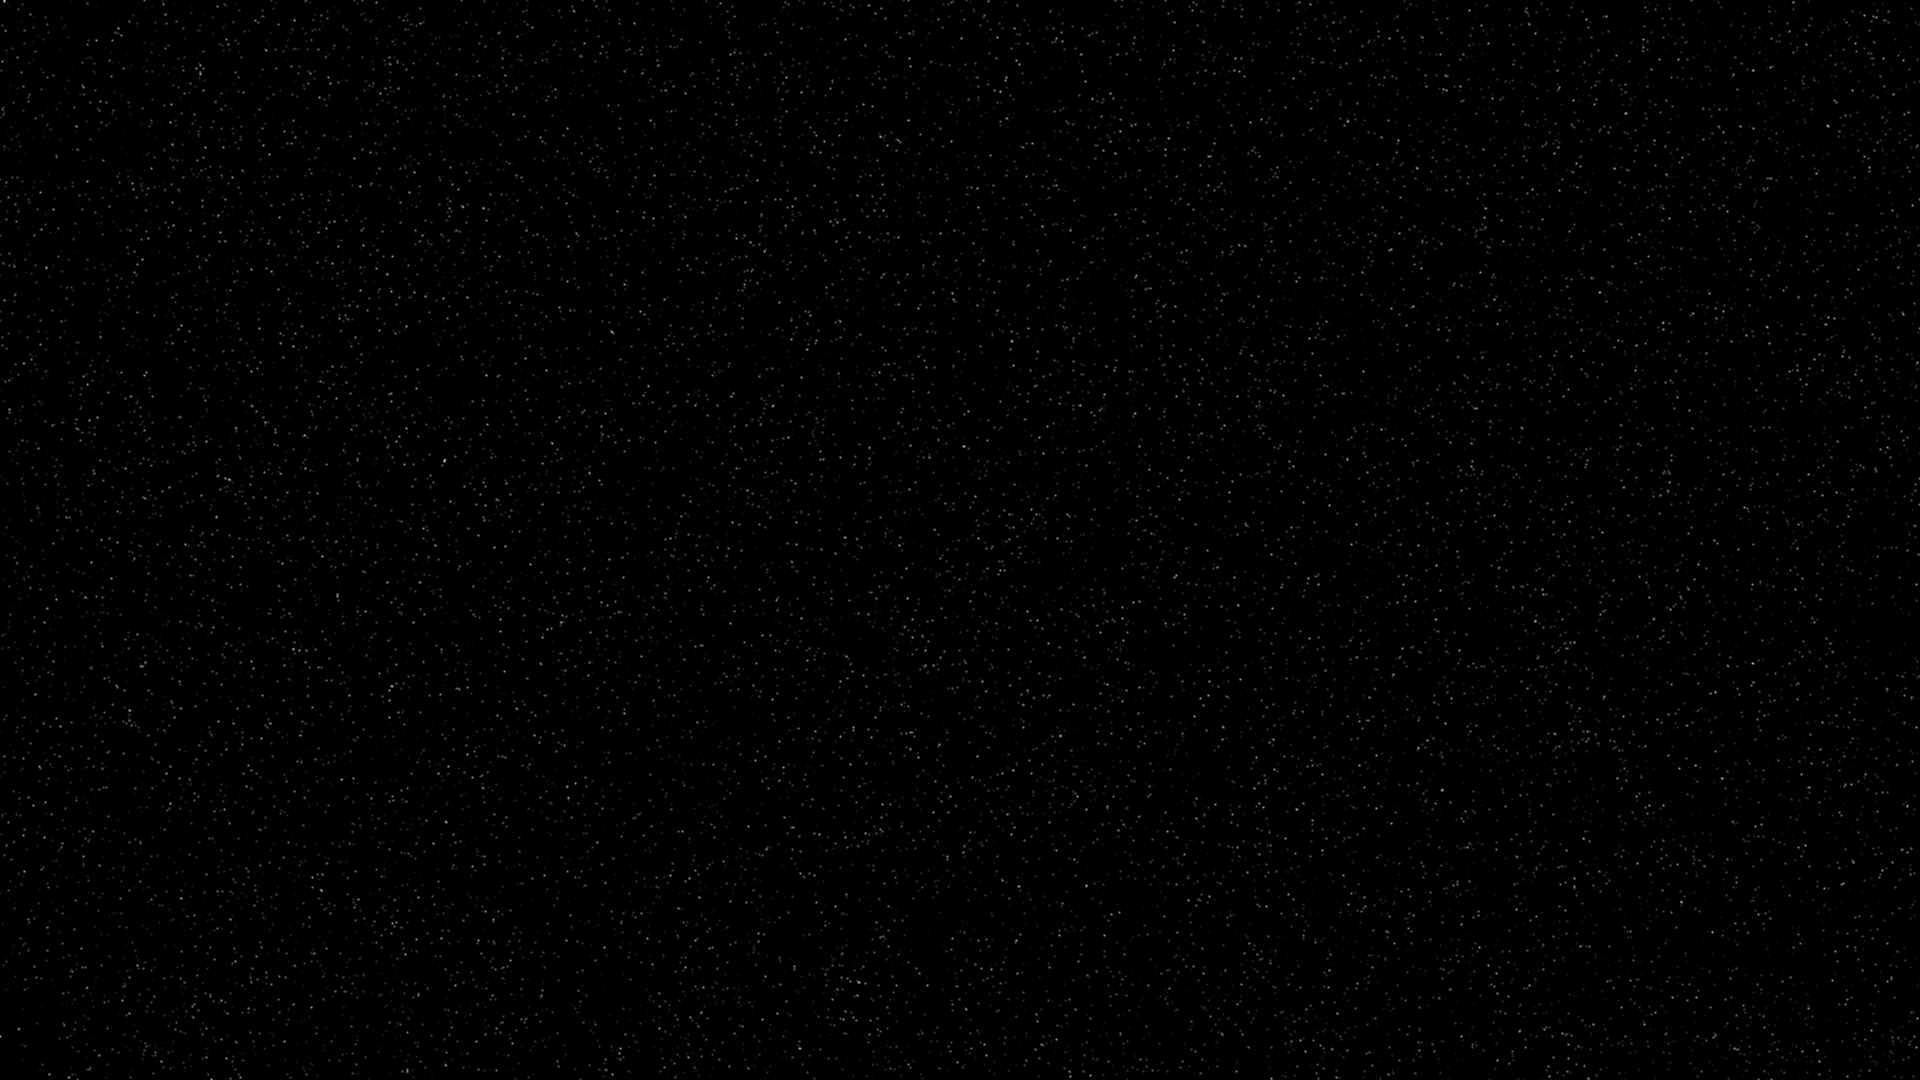
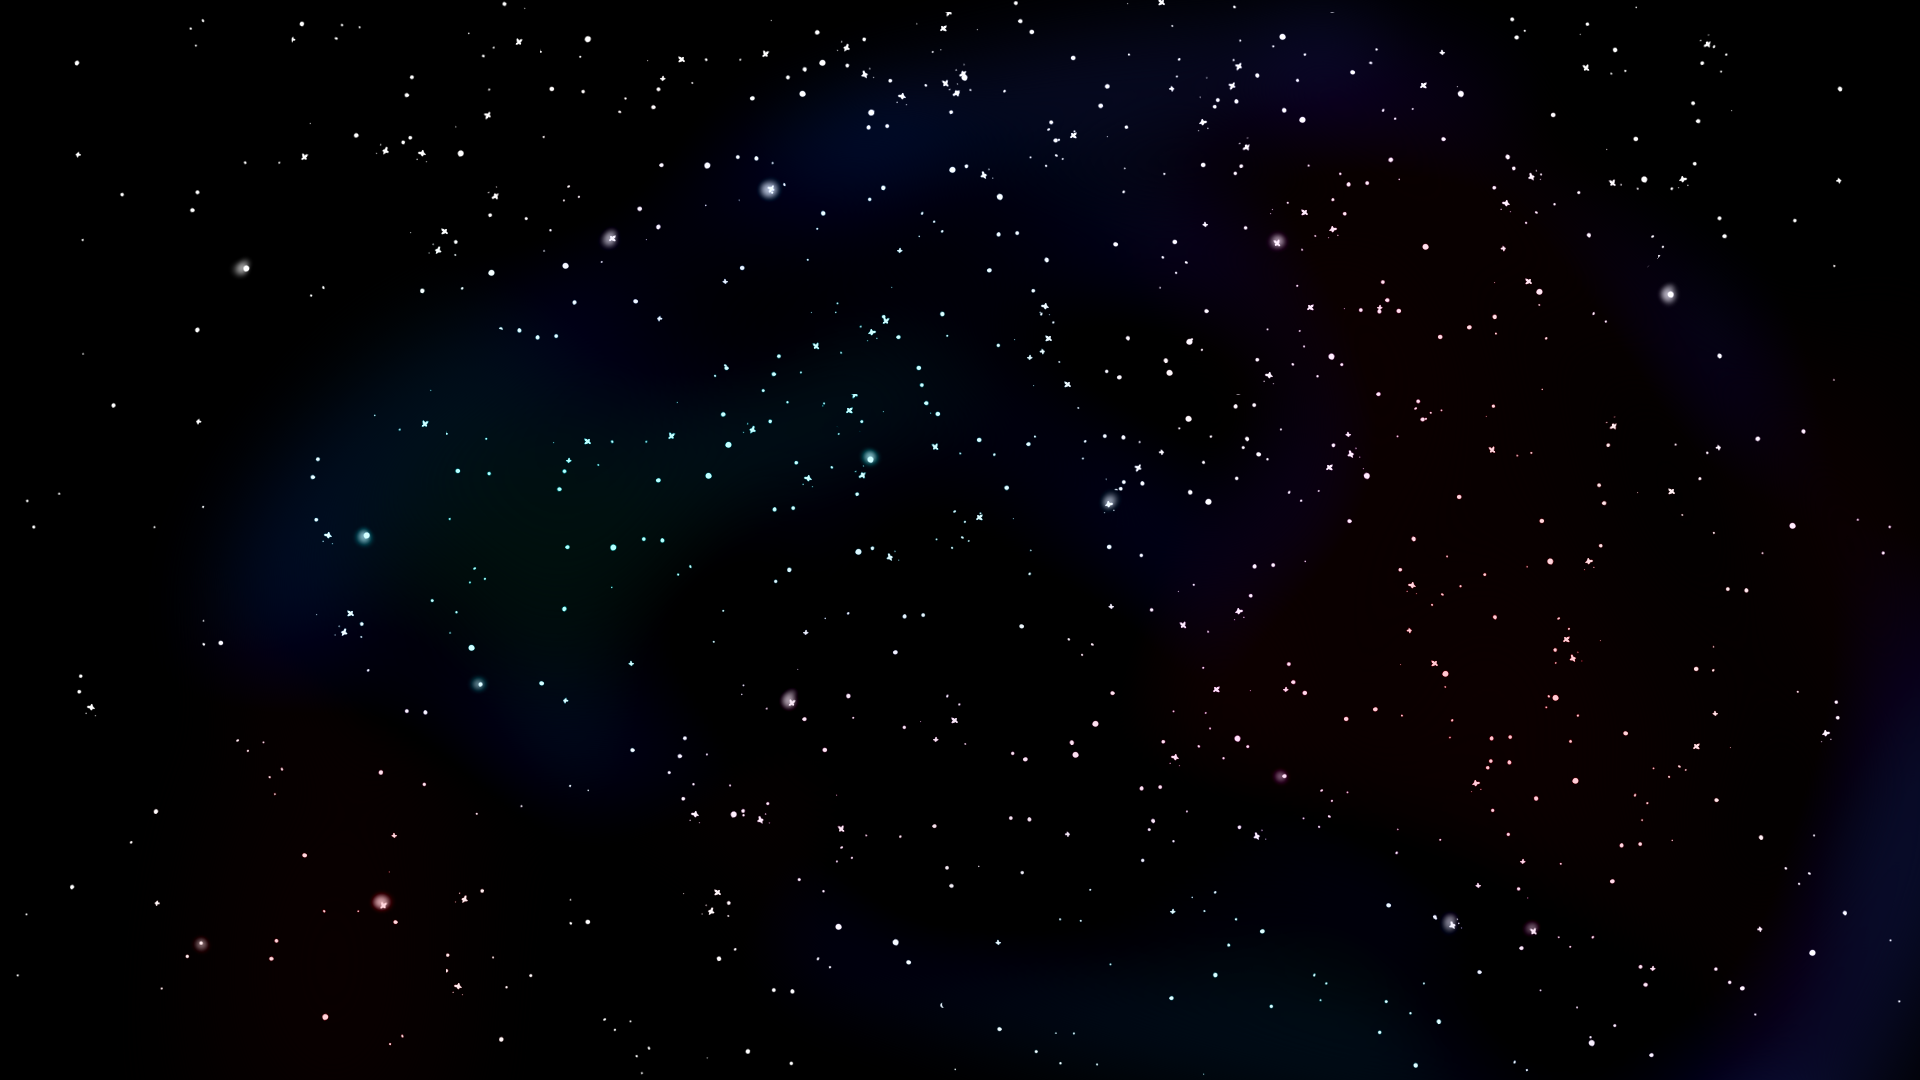
Added asteroids to asteroids

diff --git a/games/Asteroids/Asteroids.cpp b/games/Asteroids/Asteroids.cpp
@@ -1,4 +1,5 @@
 #include "Asteroids.h"
+#include "Asteroid.h"
 
 #include "../../playallthegames/Participant.h"
 
@@ -24,13 +25,21 @@ namespace asteroids
 	{
 		backgroundTexture = resourceManager->getResource<blib::Texture>("assets/games/Asteroids/back.png");
 		playerTexture = resourceManager->getResource<blib::Texture>("assets/games/Asteroids/player.png");
+		for (int i = 0; i < 3; i++)
+			asteroidTexture[i] = resourceManager->getResource<blib::Texture>("assets/games/Asteroids/asteroid" + std::to_string(i) + ".png");
 	}
 
 
 	void Asteroids::start(Difficulty difficulty)
 	{
 		for (auto p : players)
+		{
 			p->position = glm::vec2(1920 / 2, 1080 / 2) + 400.0f * blib::math::fromAngle(glm::radians(360.0f / players.size() * p->index));
+			p->rotation = 360.0f / players.size() * p->index + 180;
+		}
+
+		for (int i = 0; i < 25; i++)
+			asteroids.push_back(Asteroid()); //add an asteroid
 
 	}
 	
@@ -58,7 +67,20 @@ namespace asteroids
 				p->position.y += 1080;
 		}
 
-		
+		for (Asteroid &a : asteroids)
+		{
+			a.angle += a.angleIncrement;
+			a.position += a.movement * elapsedTime;
+
+			while (a.position.x > 1920) // wrap around right side of the screen
+				a.position.x -= 1920;
+			while (a.position.x < 0) //wrap around left side of the screen
+				a.position.x += 1920;
+			while (a.position.y > 1080) // wrap around bottom
+				a.position.y -= 1080;
+			while (a.position.y < 0) //wrap around top
+				a.position.y += 1080;
+		}
 
 	}
 
@@ -70,8 +92,9 @@ namespace asteroids
 
 		for(auto p : players)
 			spriteBatch->draw(playerTexture, blib::math::easyMatrix(p->position, p->rotation), playerTexture->center, p->participant->color);
-
-
+		
+		for (const Asteroid &asteroid : asteroids)
+			spriteBatch->draw(asteroidTexture[asteroid.size], blib::math::easyMatrix(asteroid.position, asteroid.angle), asteroidTexture[asteroid.size]->center);
 		spriteBatch->end();
 
 	}

diff --git a/games/Asteroids/Asteroid.cpp b/games/Asteroids/Asteroid.cpp
@@ -1,0 +1,20 @@
+#include "Asteroid.h"
+#include <blib/Math.h>
+
+namespace asteroids
+{
+	Asteroid::Asteroid()
+	{
+		//initialize at a random spot
+		position = glm::vec2(rand() % 1920, rand() % 1080);
+		//movement = glm::vec2(
+		//	blib::math::randomFloat(-10, 10),			//movement x axis
+		//	blib::math::randomFloat(-10, 10));		//movement y axis
+
+		movement = blib::math::randomFloat(7, 10) * blib::math::fromAngle(glm::radians(blib::math::randomFloat(0, 360)));
+
+		angle = rand() % 360;
+		angleIncrement = blib::math::randomFloat(-0.05f, 0.05f);  //movement around itself?
+		size = rand() % 3;
+	}
+}

diff --git a/games/Asteroids/Asteroids.h b/games/Asteroids/Asteroids.h
@@ -3,15 +3,19 @@
 #include "../../playallthegames/AliveGame.h"
 
 #include "AsteroidsPlayer.h"
-
+#include "Asteroid.h"
 namespace asteroids
 {
-
 	class Asteroids : public AliveGame<asteroids::Player>
 	{
+	public:
 
 		blib::Texture* backgroundTexture;
 		blib::Texture* playerTexture;
+		blib::Texture* asteroidTexture[3];
+
+		std::vector<Asteroid> asteroids;
+
 
 		virtual std::pair<int, int> getPlayerCount() { return std::pair<int, int>(99, 100); }
 		std::string getName();

diff --git a/games/Asteroids/Asteroid.h b/games/Asteroids/Asteroid.h
@@ -1,0 +1,19 @@
+#pragma once
+
+#include <glm/glm.hpp>
+
+namespace asteroids
+{
+	class Asteroid
+	{
+	public:
+		glm::vec2 position;
+		glm::vec2 movement;
+		float angle;
+		float angleIncrement;
+		int size;
+
+		Asteroid();
+	};
+
+}

diff --git a/playallthegames/PlayAllTheGames.cpp b/playallthegames/PlayAllTheGames.cpp
@@ -41,7 +41,7 @@
 using blib::util::Log;
 
 
-#define DEBUGGAME "Shooter"
+#define DEBUGGAME "Asteroids"
 
 #ifdef _DEBUG
 #define PREGAMETIME 0
